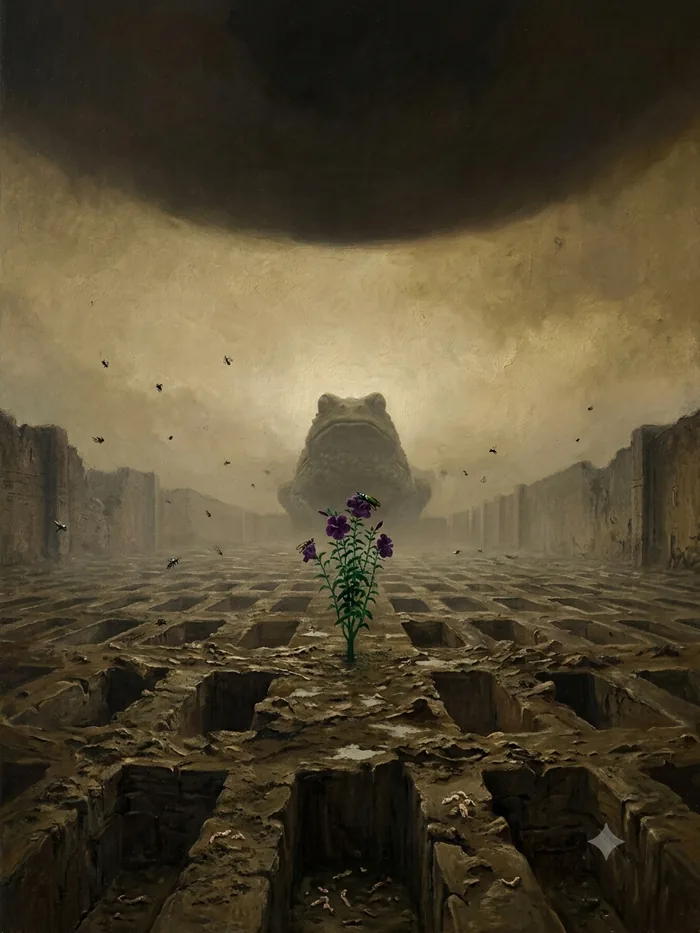
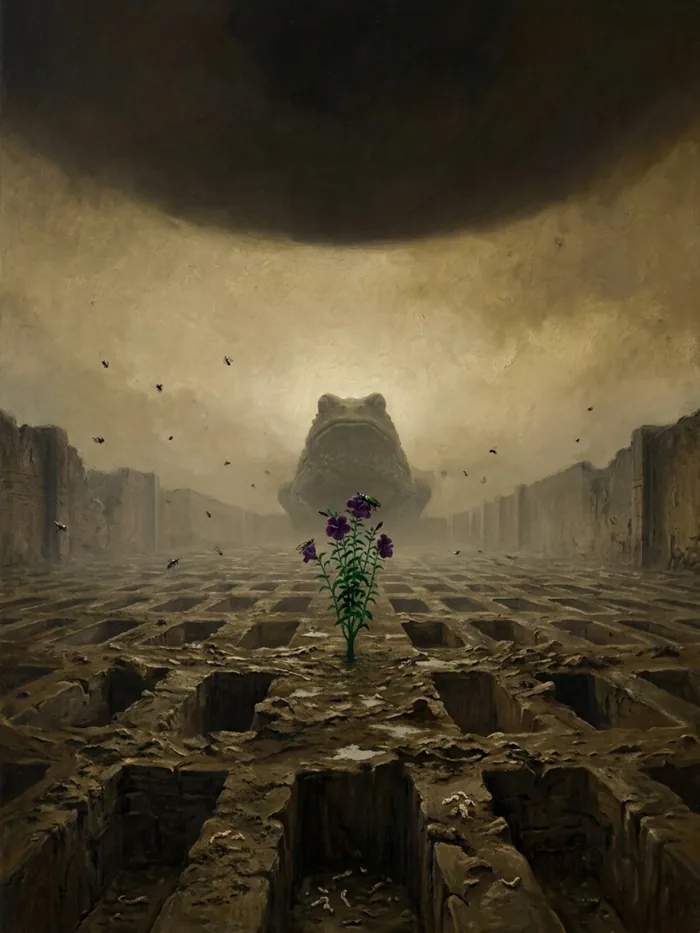
seol new

Changed region(s): [[0.84, 0.8703, 0.9, 0.9325], [0.48, 0.5595, 0.54, 0.6217], [0.39, 0.6838, 0.45, 0.7149]]

diff --git a/index.html b/index.html
@@ -2272,17 +2272,19 @@ function openField(id){
    dissolved into the page ground, so it warms the section without ever
    competing with the text on top of it. */
 /* ---------- APPENDICES ---------- */
-let loreTab = "angels";
+let loreTab = "rooms";
 function setLore(k){ loreTab=k; render(); const t=document.getElementById("loreTop"); if(t) t.scrollIntoView({block:"start",behavior:"smooth"}); }
 
 function vLore(){
   const he=lang==="he";
-  /* the world above first, then the world below - the page reads as a descent */
-  const tabs=[{k:"angels",he:"מלאכים בוגרים",en:"The angels"},
-              {k:"rooms",he:"חדרי החאן",en:"Rooms of the Khan"},
+  /* The four illustrated tabs come first, because they are what a visitor should
+     find without hunting. The two text lists sit behind them - until they are
+     illustrated too, and then this order is worth revisiting. */
+  const tabs=[{k:"rooms",he:"חדרי החאן",en:"Rooms of the Khan"},
               {k:"legions",he:"לגיונות המלאכים",en:"Angel legions"},
-              {k:"demons",he:"שושלות השדים",en:"Demon dynasties"},
               {k:"sheol",he:"מדורי השאול",en:"The circles of Sheol"},
+              {k:"demons",he:"שושלות השדים",en:"Demon dynasties"},
+              {k:"angels",he:"מלאכים בוגרים",en:"The angels"},
               {k:"line",he:"33 הדורות",en:"33 generations"}];
   return `${pageHero("ברק עם סימניה מעוצבת מתנה",
       he?"עולם מלאכיות עליון":"The world of the Archangel Sisters",
